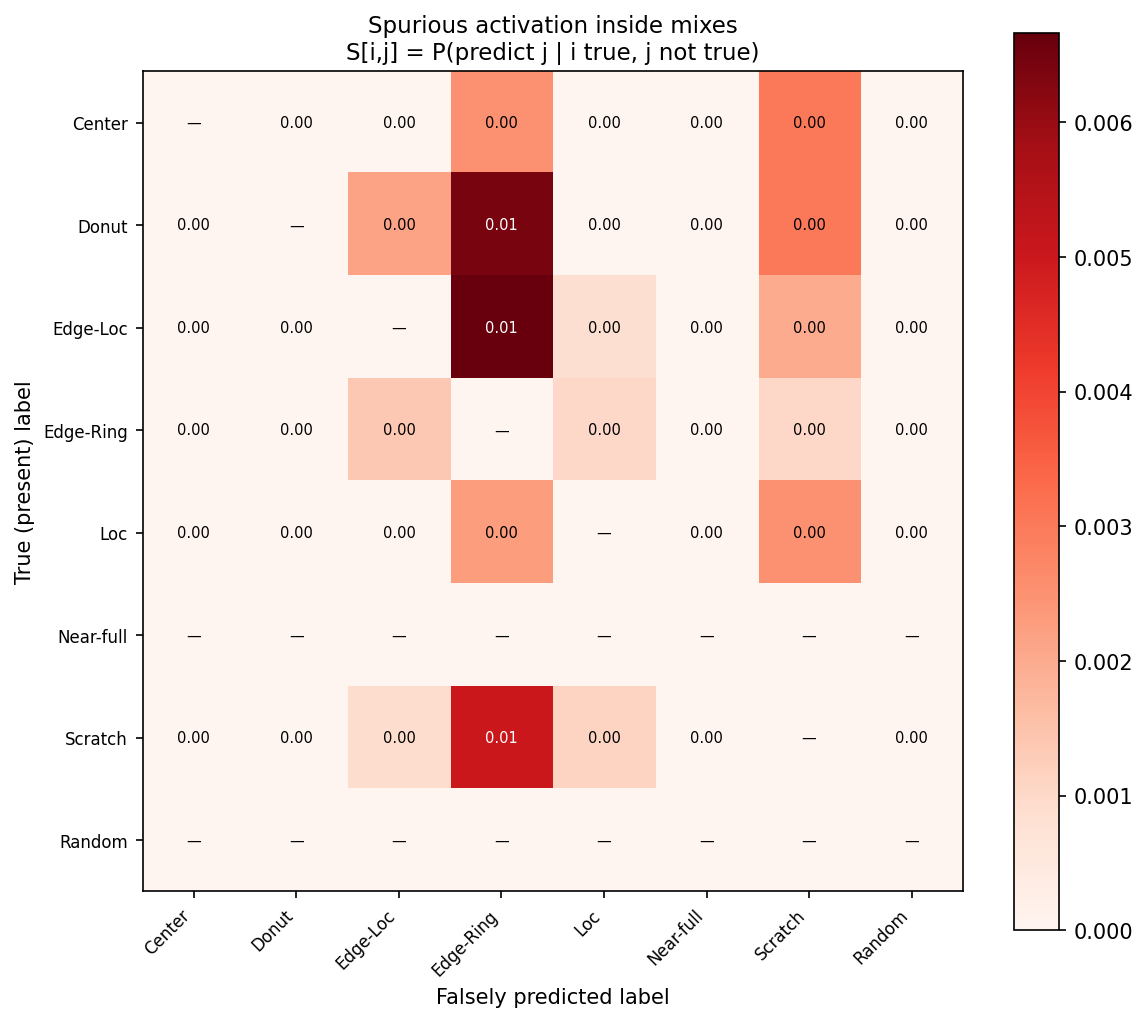
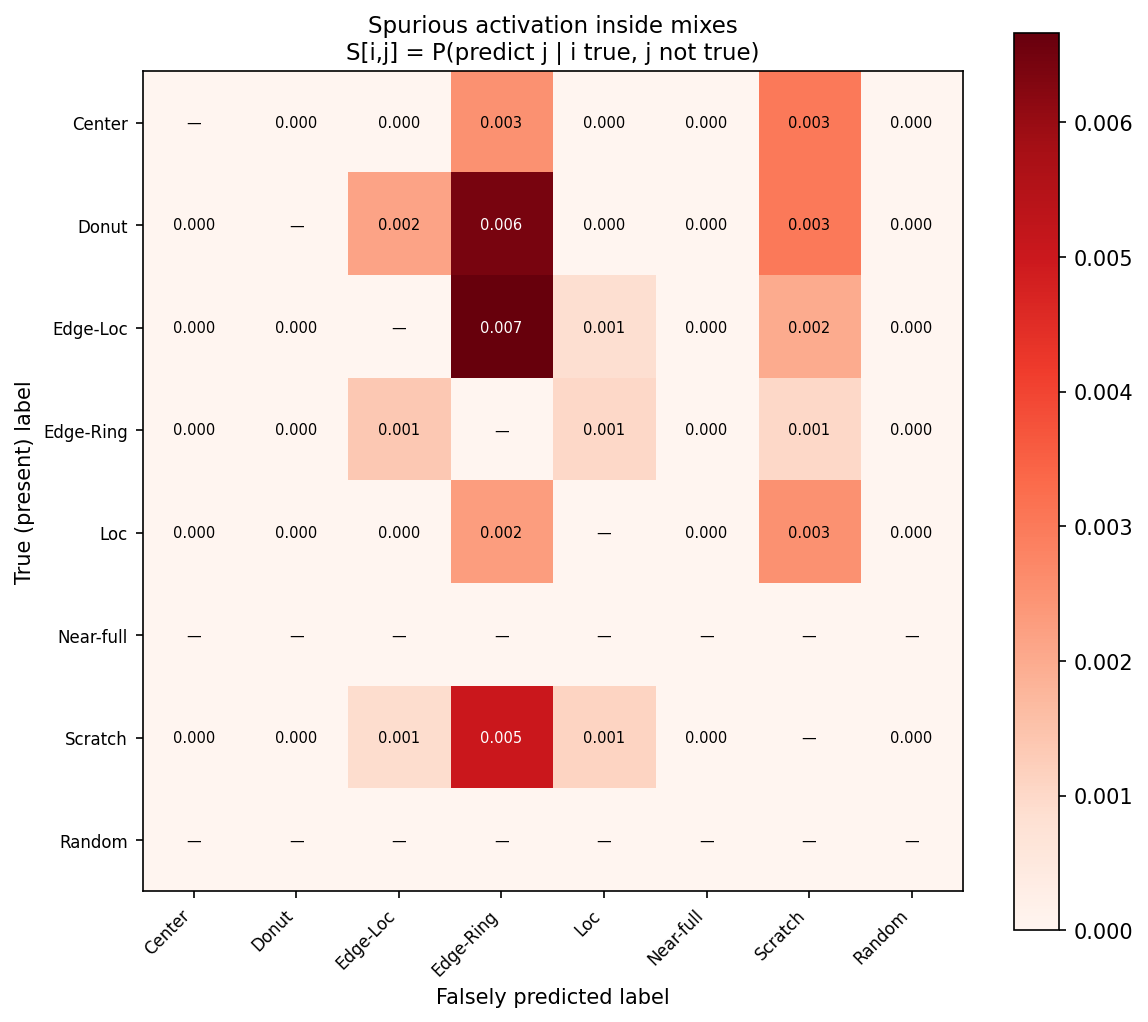
Phase 4: package — README rewrite, spurious-matrix polish, cross-links
- evaluate.py: spurious heatmap annotations 2 -> 3 decimals; regenerated
  figure (CPU rerun reproduced Phase 1 numbers exactly)
- README: full results for all three phases, quickstart, limitations,
  thresholds.json coupling note, related-repo links
- STATUS: Phase 4 log + resume bullet (macro-F1 phrasing)

diff --git a/src/wafer_mixed/evaluate.py b/src/wafer_mixed/evaluate.py
@@ -201,7 +201,7 @@ def _save_spurious_heatmap(S: np.ndarray, output_dir: Path) -> None:
     plt.colorbar(im, ax=ax)
     for i in ticks:
         for j in ticks:
-            cell = _fmt(S[i, j], ".2f")
+            cell = _fmt(S[i, j], ".3f")
             ax.text(j, i, cell, ha="center", va="center", fontsize=7,
                     color="white" if (not np.isnan(S[i, j]) and S[i, j] > 0.5 * np.nanmax(S)) else "black")
     plt.tight_layout()

diff --git a/README.md b/README.md
@@ -6,29 +6,168 @@ pipeline from single-label WM-811K to *mixed* (superposed) defect patterns,
 the production-realistic case. Satellite repo, same pattern as
 [wafer-ssl](https://github.com/ALEX8642/wafer-ssl).
 
-**Status:** Phase 0 complete (scaffold + data pipeline). See `STATUS.md` for
-the session-by-session log and `PLAN` phases in the workspace plan doc.
+**Study complete.** Three findings, each with the honest caveat attached:
+
+| Finding | Number | Caveat |
+|---|---|---|
+| The WM-811K architecture transfers unchanged to 8-way multi-label | test macro-F1 **0.9846**, exact-match 0.9696 | MixedWM38 is largely GAN-synthesized and saturates fast — this is not a hard ceiling being pushed |
+| Pretrained init pays **only** in the low-data regime | **+8.8 macro-F1 pts** at 1 % data (supervised WM-811K init, every seed); exact-match 0.63 → 0.89 | at ≥10 % data all three inits are a wash — a null result, reported as one |
+| Per-label thresholds beat global 0.5 where it counts | **−36 % label-level escapes**, cost-weighted error −35 % at 10:1 | temperature scaling itself was a null result (model already near-calibrated, mean ECE 0.0045) |
+
+Session-by-session log with full tables: [STATUS.md](STATUS.md).
 
 ## Data
 
-MixedWM38 (Wang et al. 2020): 38,015 wafer maps, 52×52, 38 pattern types
-that decompose into **8 basic defect labels** → framed as 8-way multi-label
-classification, not 38-way multi-class. Facts verified locally; see
-[docs/DATA.md](docs/DATA.md) for the frequency tables, sample grids, and the
-label-ordering verification.
+MixedWM38 ([Wang et al. 2020](https://github.com/Junliangwangdhu/WaferMap)):
+38,015 wafer maps, 52×52, 38 pattern types that decompose into **8 basic
+defect labels** → framed as 8-way multi-label classification (multi-hot
+targets, BCE-with-logits), not 38-way multi-class. Dataset facts were
+verified locally rather than assumed — the label ordering is undocumented
+upstream and was established visually; a stray pixel value and two labels
+that never appear in mixes are documented in
+[docs/DATA.md](docs/DATA.md) along with frequency tables and sample grids.
 
 **Data boundary:** this repo uses only the public MixedWM38 dataset — no
 proprietary or employer data appears here, in any branch, at any point.
 
-## Quickstart (Phase 0)
+## Baseline — multi-label ResNet-18+CBAM (Phase 1)
+
+Ported verbatim from the main repo (8-logit head, D4 dihedral augmentation,
+AMP, early stop on val macro-F1). Test set, sigmoid @ 0.5:
+
+| label | precision | recall | F1 | support |
+|---|---|---|---|---|
+| Center | 1.0000 | 0.9996 | 0.9998 | 2600 |
+| Donut | 1.0000 | 1.0000 | 1.0000 | 2400 |
+| Edge-Loc | 0.9984 | 0.9769 | 0.9876 | 2600 |
+| Edge-Ring | 0.9925 | 0.9967 | 0.9946 | 2400 |
+| Loc | 0.9994 | 0.9778 | 0.9885 | 3600 |
+| Near-full | 0.9643 | 0.9000 | 0.9310 | 30 |
+| Scratch | 0.9984 | 0.9805 | 0.9894 | 3800 |
+| Random | 0.9828 | 0.9884 | 0.9856 | 173 |
+
+Macro-F1 **0.9846**, exact-match (all 8 labels correct) **0.9696**.
+Near-full and Random ride on small test support (30 / 173) and never appear
+in mixes — their numbers carry wide intervals.
+
+The multi-label analogue of a confusion matrix is the **spurious-activation
+matrix** S[i,j] = P(predict j | i true, j absent). At convergence it is
+nearly empty — the worst cell is Edge-Loc → +Edge-Ring at 0.007:
+
+![Spurious activation matrix](assets/spurious_matrix.png)
+
+## Transfer study (Phase 2)
+
+Does pretraining on WM-811K help MixedWM38? Three inits — from scratch,
+WM-811K supervised backbone, WM-811K SimCLR backbone
+([wafer-ssl](https://github.com/ALEX8642/wafer-ssl)) — swept across
+100 % / 10 % / 1 % of the train split, stratified so all arms of a cell
+train on identical maps. Test macro-F1, mean over seeds:
+
+| train maps | scratch | supervised | simclr |
+|---|---|---|---|
+| 266 (1 %) | 0.877 | **0.965** | 0.885 |
+| 2,661 (10 %) | 0.980 | 0.978 | 0.981 |
+| 26,610 (100 %) | 0.985 | 0.985 | 0.982 |
+
+![Transfer curves](assets/transfer_curves.png)
+
+Transfer pays only when data is scarce; at ≥10 % initialisation stops
+mattering. SimCLR's 1 % wash traces to a single rare label (Near-full)
+collapsing on 2 of 3 seeds. Full narrative, seed spreads, exact-match
+tables, and the budget-scaling gotcha: [docs/TRANSFER.md](docs/TRANSFER.md).
+
+## Calibration + per-label thresholds (Phase 3)
+
+Per-label temperature scaling (multi-label makes calibration per-logit — 8
+independent scalars) plus per-label decision thresholds tuned on val, ties
+broken toward the lower τ because escapes cost 10× false alarms:
+
+| | raw @0.5 | calibrated @τ |
+|---|---|---|
+| macro-F1 | 0.9846 | 0.9825 |
+| exact-match | 0.9696 | **0.9755** |
+| escapes (label-level) | 228 | **145** (−36 %) |
+| false alarms | 34 | 64 |
+| clean escapes (wafer-level) | 10 | **3** |
+| cost-weighted error (10:1) | 0.3044 | **0.1991** (−35 %) |
+
+Temperature scaling alone is a null result — the model is already
+near-calibrated (mean ECE 0.0045 → 0.0043). The thresholds are where the
+value is: every tuned τ landed below 0.5, trading 30 extra false alarms for
+83 fewer escapes. Mixed maps also change the escape bookkeeping: escapes
+are naturally per-*label* (a missed Scratch on an Edge-Ring+Scratch map
+loses the root-cause signature even though the wafer is still flagged),
+while the per-wafer "clean escape" — a defective map predicted fully
+normal, the wafer that ships — drops 10 → 3 of 7,403 defective test maps.
+
+![Per-label reliability before/after temperature scaling](assets/reliability_diagram.png)
+
+**Note on `thresholds.json`:** the tuned τ apply to *temperature-scaled*
+probabilities, so the file embeds the per-label T alongside the thresholds —
+apply both or neither.
+
+## Grad-CAM++ on mixed patterns
+
+Does attention separate superposed signatures? Mostly yes: on a three-way
+Center+Edge-Loc+Scratch mix the per-label heatmaps are fully disjoint
+(all at sigmoid 1.00). Edge-Ring+Scratch is partial — Edge-Ring heat spreads
+along the rim but shares the scratch region. Edge-Loc+Loc is the weakest
+pair, defensibly: a Loc cluster near the edge *is* Edge-Loc-like.
+
+![Grad-CAM++ separates three superposed signatures](assets/gradcam_center_edge_loc_scratch.png)
+
+<p align="center">
+  <img src="assets/gradcam_center_scratch.png" width="49%" alt="Grad-CAM++ Center + Scratch"/>
+  <img src="assets/gradcam_edge_ring_scratch.png" width="49%" alt="Grad-CAM++ Edge-Ring + Scratch (partial separation)"/>
+</p>
+
+## Quickstart
 
 ```bash
 pip install -e . -r requirements.txt
-python scripts/download_data.py     # ~412 MB download + verify + write splits
-python scripts/eda.py               # regenerate docs/DATA.md + assets/
-pytest                              # includes split-leakage checks
+python scripts/download_data.py          # ~412 MB download + verify + write splits
+pytest                                   # includes split-leakage checks
+
+python -m wafer_mixed.train              # early-stops (14 epochs on the reference 5090 run)
+python -m wafer_mixed.evaluate           # metrics tables + spurious matrix → outputs/
+python -m wafer_mixed.calibrate          # per-label T + τ → outputs/{calibration,thresholds}.json
+python -m wafer_mixed.explain            # Grad-CAM++ overlays → outputs/grad_cam/
+
+python scripts/transfer_study.py         # Phase 2 sweep, 21 runs (~2 h on a 5090; resumable)
+python scripts/plot_transfer.py          # assets/transfer_curves.png
 ```
+
+The transfer study expects donor checkpoints at sibling-repo paths (see
+`ARMS` in `scripts/transfer_study.py`); everything else is self-contained.
+
+## Related repos
+
+- [wafer-defect-classifier](https://github.com/ALEX8642/wafer-defect-classifier) —
+  the parent pipeline: 9-class WM-811K, focal+CBAM, calibration,
+  cost-of-quality framing. Its supervised checkpoint is the transfer donor here.
+- [wafer-ssl](https://github.com/ALEX8642/wafer-ssl) — SimCLR pretraining on
+  638k unlabeled WM-811K maps; its backbone export is the second donor arm.
+
+## Limitations
+
+- **MixedWM38 is largely GAN-synthesized** and near-uniform by design; models
+  saturate quickly (0.93 val macro-F1 after one epoch). Absolute numbers here
+  measure pipeline correctness more than real-world difficulty.
+- **Near-full (n=30) and Random (n=173)** have small test support and never
+  appear in mixed patterns; their per-label metrics carry wide intervals.
+- **Full-data runs are single-seed** (42); the data-fraction sweep uses 3
+  seeds only where variance is material (1 % and 10 %).
 
 ## License
 
 MIT — see [LICENSE](LICENSE).
+
+## References
+
+Wang et al. (2020). MixedWM38 dataset. *IEEE Trans. Semiconductor
+Manufacturing*, doi:10.1109/TSM.2020.3020985. Dataset repo:
+[github.com/Junliangwangdhu/WaferMap](https://github.com/Junliangwangdhu/WaferMap).
+
+Selvaraju, R. R., et al. (2017). Grad-CAM: Visual Explanations from Deep
+Networks via Gradient-based Localization. *ICCV 2017*.

diff --git a/STATUS.md b/STATUS.md
@@ -346,3 +346,50 @@ assets/: reliability_diagram.png + 5 gradcam_*.png committed.
 6. Wherever README mentions thresholds.json: the tuned τ apply to
    temperature-scaled probs (the file embeds per-label T for that reason).
 7. /code-review pre-commit (inline, no sub-agents), commit, push.
+
+## Phase 4 — Package ✅ (2026-07-02)
+
+**Done:**
+- Spurious-matrix polish: `_save_spurious_heatmap` annotations 2 → 3
+  decimals; evaluate rerun locally on CPU against outputs/best.pt —
+  **reproduced the Phase 1 5090 numbers exactly** (macro-F1 0.9846,
+  exact-match 0.9696, same top spurious cells); regenerated
+  spurious_matrix.png → assets/ (matrix no longer reads as all-zeros).
+- README.md rewritten for the completed study: three-finding summary table
+  (each with its honest caveat inline), per-label baseline table, transfer
+  table linking docs/TRANSFER.md, calibration/threshold table with the
+  thresholds.json coupling note (tuned τ apply to temperature-scaled probs;
+  the file embeds per-label T), Grad-CAM gallery, quickstart covering all
+  five stages + the transfer sweep, data-boundary statement, limitations
+  (GAN saturation, small-support labels, single-seed full-data runs).
+  All numbers copied from this file, none recomputed — except the evaluate
+  rerun above, which doubled as a reproduction check.
+- Cross-links: main repo README "Self-supervised + ensemble extension"
+  section → "Extensions" (wafer-ssl paragraph unchanged, wafer-mixed
+  paragraph added); workspace ROADMAP.md wafer-mixed moved to Done;
+  ALEX8642 profile README wafer-mixed moved from "In progress" into the
+  portfolio table. (Main-repo/profile commits are separate, in their repos.)
+- **Resume bullet (macro-F1 phrasing chosen):**
+  > Extended a wafer-defect CNN pipeline to multi-label classification of
+  > mixed defect patterns (MixedWM38, test macro-F1 0.985); a controlled
+  > transfer study showed pretrained initialisation pays only when labels
+  > are scarce (+8.8 F1 pts at 1 % of training data), and per-label decision
+  > thresholds cut defect escapes 36 % at a 10:1 escape:false-alarm cost
+  > ratio.
+  Why over the exact-match phrasing: it carries all three findings (model,
+  transfer rigor, cost-aware operating point) instead of one, the escapes/
+  cost-ratio clause speaks directly to manufacturing-quality readers, and
+  "0.63 → 0.89 exact-match" needs context a resume line can't provide —
+  cold, 0.63 reads as a weak model rather than a scarce-data baseline.
+- Fresh-clone quickstart verified end-to-end in a temp dir (this box is
+  CPU-only, so `train` was smoked with `--num-epochs 1` per the plan; full
+  training claims remain from the 5090 runs): clone → `pip install -e .` →
+  download (412 MB, SHA256 + shape/combo checks pass) → 47 tests pass →
+  train 1 epoch on CPU (~21 min, val macro-F1 0.9652 — in line with the
+  5090's epoch-1 0.9324 and the 4090 smoke's 0.9473) → evaluate → calibrate
+  → explain
+  (all 5 Grad-CAM figures regenerate). Every quickstart command ran as
+  written in the README.
+
+**Next:** project complete — no further phases. Follow-on work happens in
+the root-cause / SQL pipeline repo (workspace ROADMAP.md project 2).